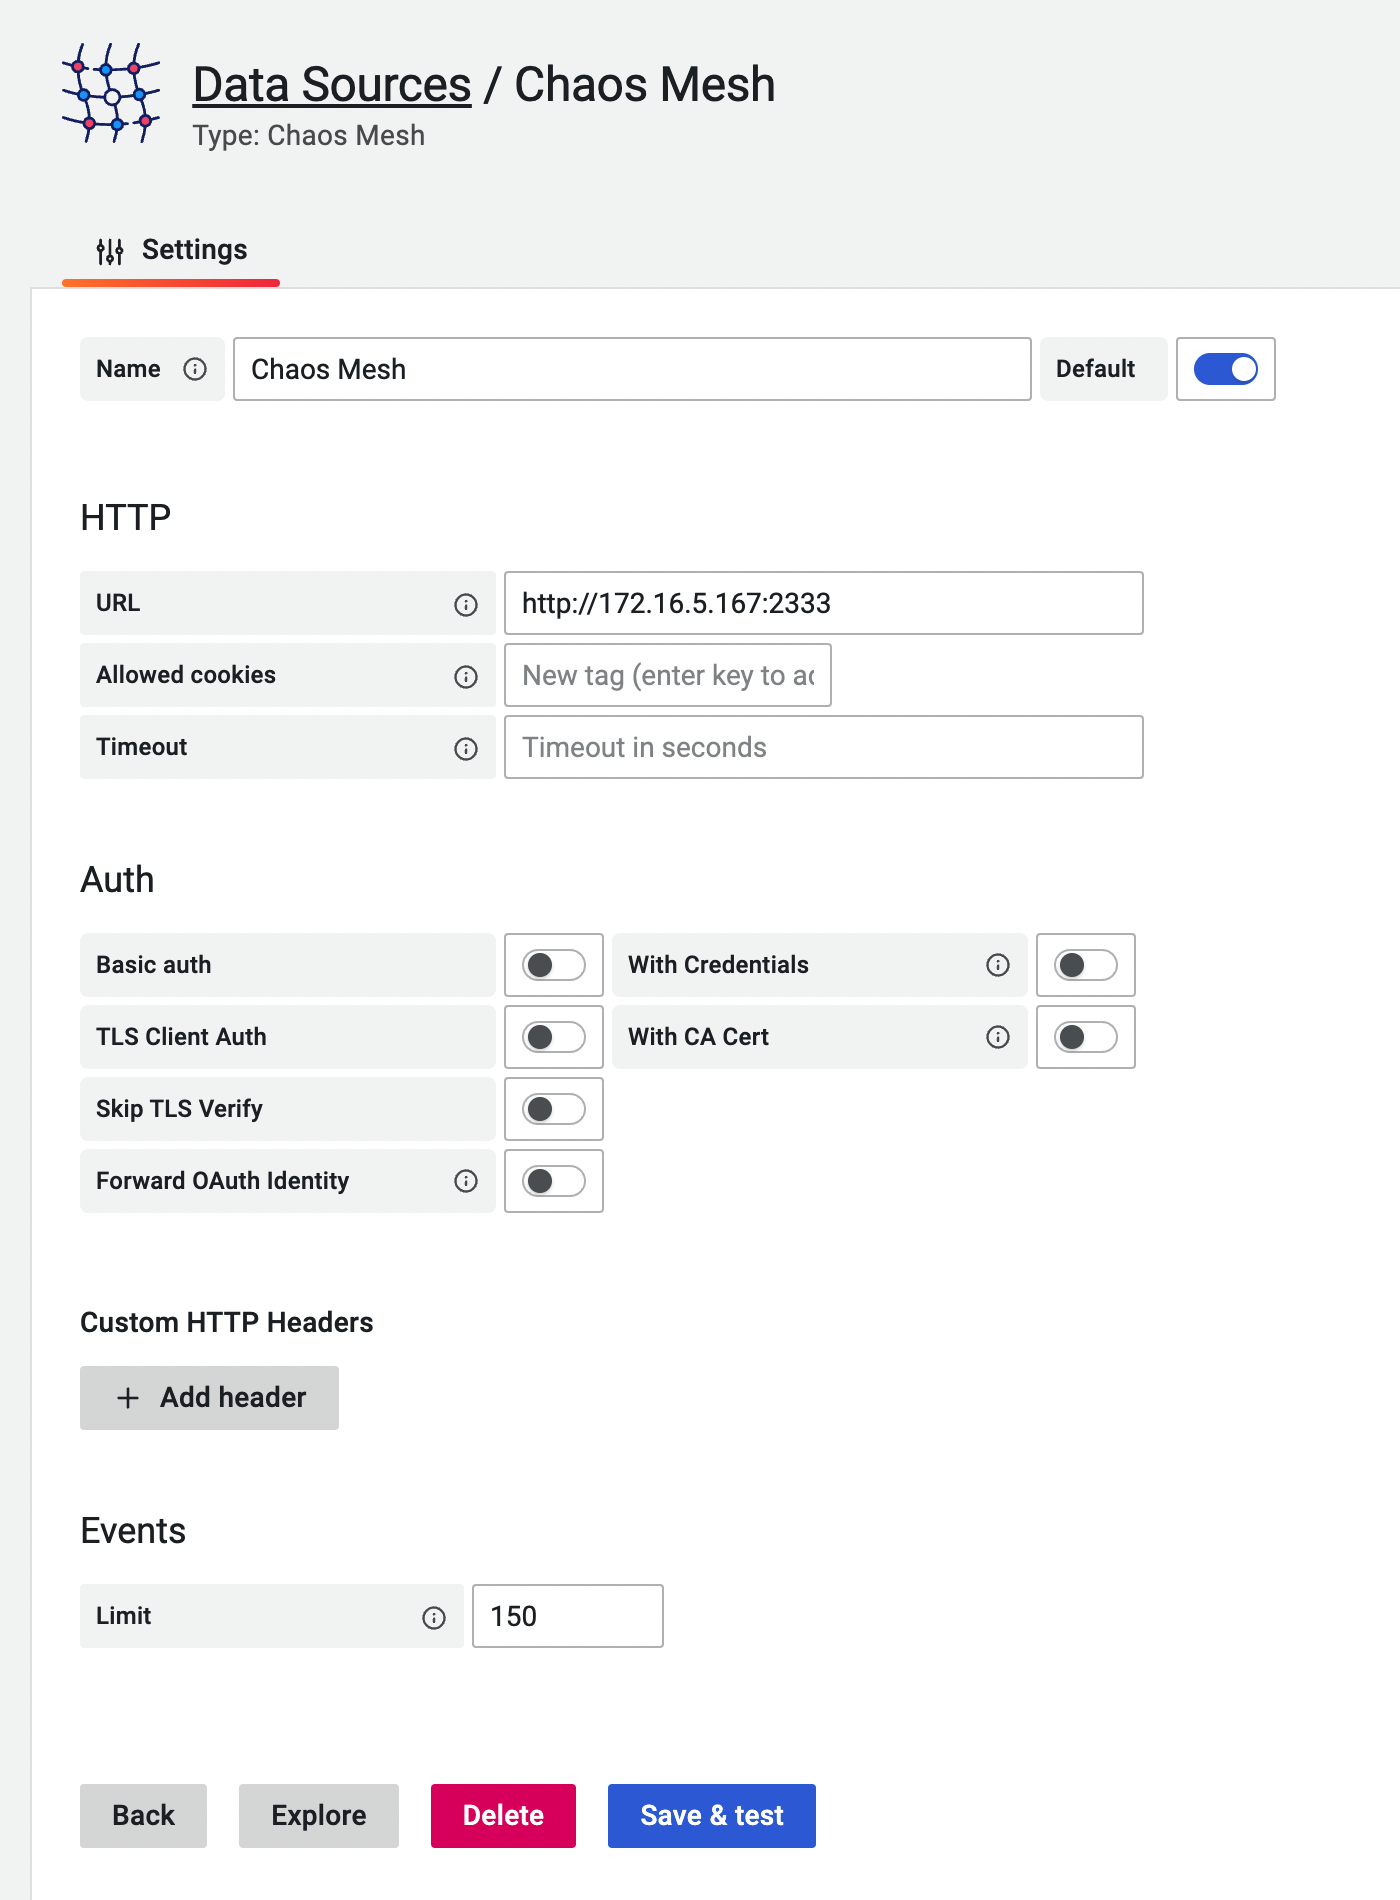
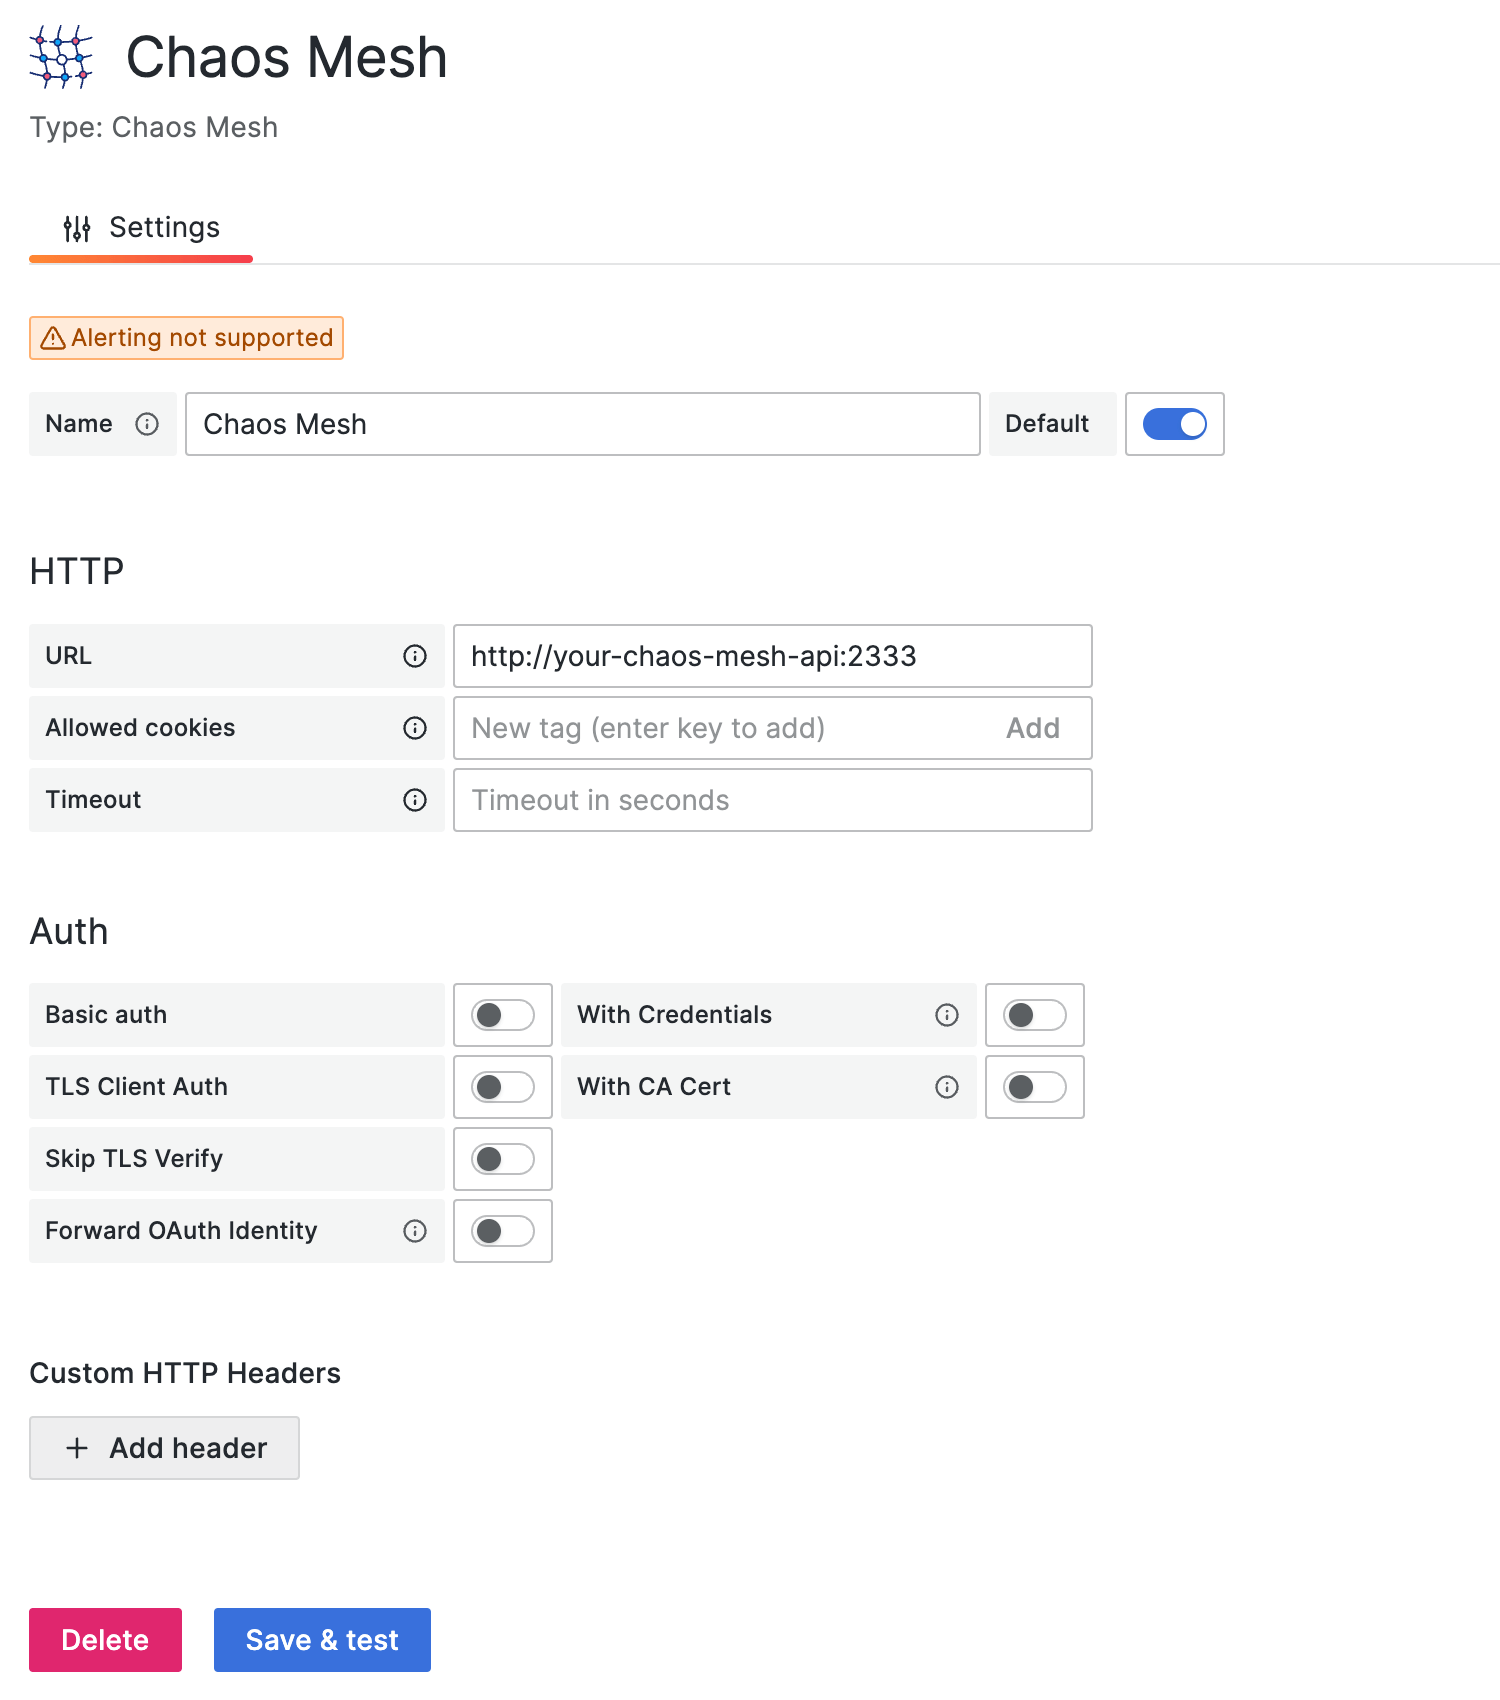
chore: update plugin info

diff --git a/README.md b/README.md
@@ -2,15 +2,24 @@
 
 Grafana data source plugin for Chaos Mesh.
 
-> Require: Chaos Mesh >= **2.1.0**, Grafana >= **7.0.0**
+> This plugin requires Chaos Mesh **>=2.1**, Grafana >= **10.0**.
+>
+> Note: We only test the plugin on Grafana 10.0.3, it may support lower versions, but we are not sure.
+> Upgrading to Grafana v10 is because of the [Angular support deprecation](https://github.com/chaos-mesh/datasource/issues/55). If you encounter any problems, please open an issue to let us know.
 
 ## Features
 
-- Visualize Chaos Events on the table
-- Show Chaos Events on the graph with [Annotations](https://grafana.com/docs/grafana/latest/dashboards/annotations/)
-- Display different Chaos Events by [Variables](https://grafana.com/docs/grafana/latest/variables/)
+- Displaying Chaos events in a table visualization
+- Support [variables](https://grafana.com/docs/grafana/latest/variables/) to filter Chaos events
+- Support [Annotations](https://grafana.com/docs/grafana/latest/dashboards/annotations/) to annotate Chaos events on the panel
 
 ## Install
+
+### With dashboard
+
+[https://grafana.com/docs/grafana/latest/administration/plugin-management/#install-a-plugin](https://grafana.com/docs/grafana/latest/administration/plugin-management/#install-a-plugin)
+
+### With cli
 
 ```sh
 grafana-cli plugins install chaosmeshorg-datasource
@@ -41,11 +50,11 @@ Finally, restart Grafana to load the plugin.
 
 ## Setup
 
-Once installed, go to **Configuration -> Data sources** and add Chaos Mesh, then go to the configuration page:
+Once installed, go to **Administration -> Data sources** and add Chaos Mesh, then go to the configuration page:
 
 ![Settings](https://raw.githubusercontent.com/chaos-mesh/datasource/master/src/img/settings.png)
 
-Assuming you have Chaos Mesh installed locally, Dashboard will export the API on port `2333` by default. So, if you haven't changed anything, you can just fill in `http://localhost:2333`.
+Assuming you have Chaos Mesh installed locally, the Chaos Dashboard will export the API on port `2333` by default. So, if you haven't changed anything, you can fill in `http://localhost:2333`.
 
 Then use the `port-forward` command to activate:
 
@@ -53,11 +62,11 @@ Then use the `port-forward` command to activate:
 kubectl port-forward -n chaos-testing svc/chaos-dashboard 2333:2333
 ```
 
-Finally, click **Save & Test** to test the connection. If it shows a successful notification, the setup is complete.
+Finally, click **Save & test** to test the connection. If it shows a successful notification, the setup is complete.
 
 ## Query
 
-The Data Source plugin looks at the Chaos Mesh through the lens of events, and the following options are responsible for filtering the different events:
+The data source plugin looks at the Chaos Mesh through the lens of events, and the following options are responsible for filtering the different events:
 
 - **Object ID**
 
@@ -73,48 +82,43 @@ The Data Source plugin looks at the Chaos Mesh through the lens of events, and t
 
 - **Kind**
 
-  > Filter by kind (PodChaos, Schedule...).
+  > Filter by kind (PodChaos, NetworkChaos, Schedule...). You can also input an arbitrary kind
+  > if you implement a new kind in Chaos Mesh.
 
 - **Limit**
 
   > Limit the number of events.
 
-They will be passed as parameters to the `/api/events` API.
-
-## Annotations
-
-You can integrate Chaos Mesh's events into the panel via Annotations, the following is a sample creation:
-
-![Annotations](https://raw.githubusercontent.com/chaos-mesh/datasource/master/src/img/annotations.png)
-
-Please refer to the contents of [Query](#query) to fill in the corresponding fields.
+All of them will be passed as parameters to the `/api/events` API.
 
 ## Variables
 
-If you choose the type to `Query` and select the data source to `Chaos Mesh`, you can retrieve
-the variables by different metrics:
+The data source plugin supports adding query variables by different metrics:
 
 ![Variables](https://raw.githubusercontent.com/chaos-mesh/datasource/master/src/img/variables.png)
 
-- Namespace
+- **Namespace**
 
-  > After selection, all available namespaces will show in **Preview of values** directly. Without other operations.
+  > After selection, all available namespaces will show in the **Preview of values** directly.
 
-- Kind
+- **Kind**
 
   > Same as **Namespace**. Retrieve all kinds.
 
-- Experiment
+- **Experiment/Schedule/Workflow**
 
-  > Same as **Namespace**. Retrieve current all experiments.
+  > Same as **Namespace**. Retrieve current all experiments/schedules/workflows.
+  >
+  > You can also specify the `queries` to further filter the values,
+  > for example, `?namespace=default` will only retrieve the experiments/schedules/workflows in the `default` namespace.
 
-- Schedule
+## Annotations
 
-  > Same as **Namespace**. Retrieve current all schedules.
+You can integrate events into panels via annotations, the following is a sample creation, it will retrieve all PodChaos events:
 
-- Workflow
+![Annotations](https://raw.githubusercontent.com/chaos-mesh/datasource/master/src/img/annotations.png)
 
-  > Same as **Namespace**. Retrieve current all workflows.
+Please refer to [Query](#query) to fill in the corresponding fields.
 
 ## How to contribute
 
@@ -122,4 +126,4 @@ Pull a request or open an issue to describe your changes or problems.
 
 ## License
 
-Same as Chaos Mesh. Under Apache-2.0 License.
+Same as Chaos Mesh. Under the Apache-2.0 License.

diff --git a/CHANGELOG.md b/CHANGELOG.md
@@ -5,6 +5,13 @@ All notable changes to this project will be documented in this file.
 The format is based on [Keep a Changelog](https://keepachangelog.com/en/1.0.0/),
 and this project adheres to [Semantic Versioning](https://semver.org/spec/v2.0.0.html).
 
+## [3.0.0] - 2023-12-18
+
+### Changed
+
+Deprecate Angular support. Refer to [#55](https://github.com/chaos-mesh/datasource/issues/55) for more details.
+Please also read the README for new information.
+
 ## [2.2.3] - 2022-08-07
 
 ### Fixed
@@ -43,7 +50,7 @@ Ready for submission to grafana official plugins repository. 🥰
 
 ### Changed
 
-- Compatible with Chaos Mesh 2.x. **(After 2.0.x, will start with 2.1.x)**
+- Compatible with Chaos Mesh 2.x (**after 2.0.x, will start with 2.1.x**).
 - Bump the minimal grafana version to 7.0.0
 - Bump grafana/toolkit to 8.x
 
@@ -57,6 +64,6 @@ Ready for submission to grafana official plugins repository. 🥰
 
 ### Added
 
-- Visualize Chaos Events on the table
-- Show Chaos Events on the graph with [Annotations](https://grafana.com/docs/grafana/latest/dashboards/annotations/)
-- Display different Chaos Events by [Variables](https://grafana.com/docs/grafana/latest/variables/)
+- Displaying Chaos events in a table visualization
+- Support [variables](https://grafana.com/docs/grafana/latest/variables/) to filter Chaos events
+- Support [Annotations](https://grafana.com/docs/grafana/latest/dashboards/annotations/) to annotate Chaos events on the panel
